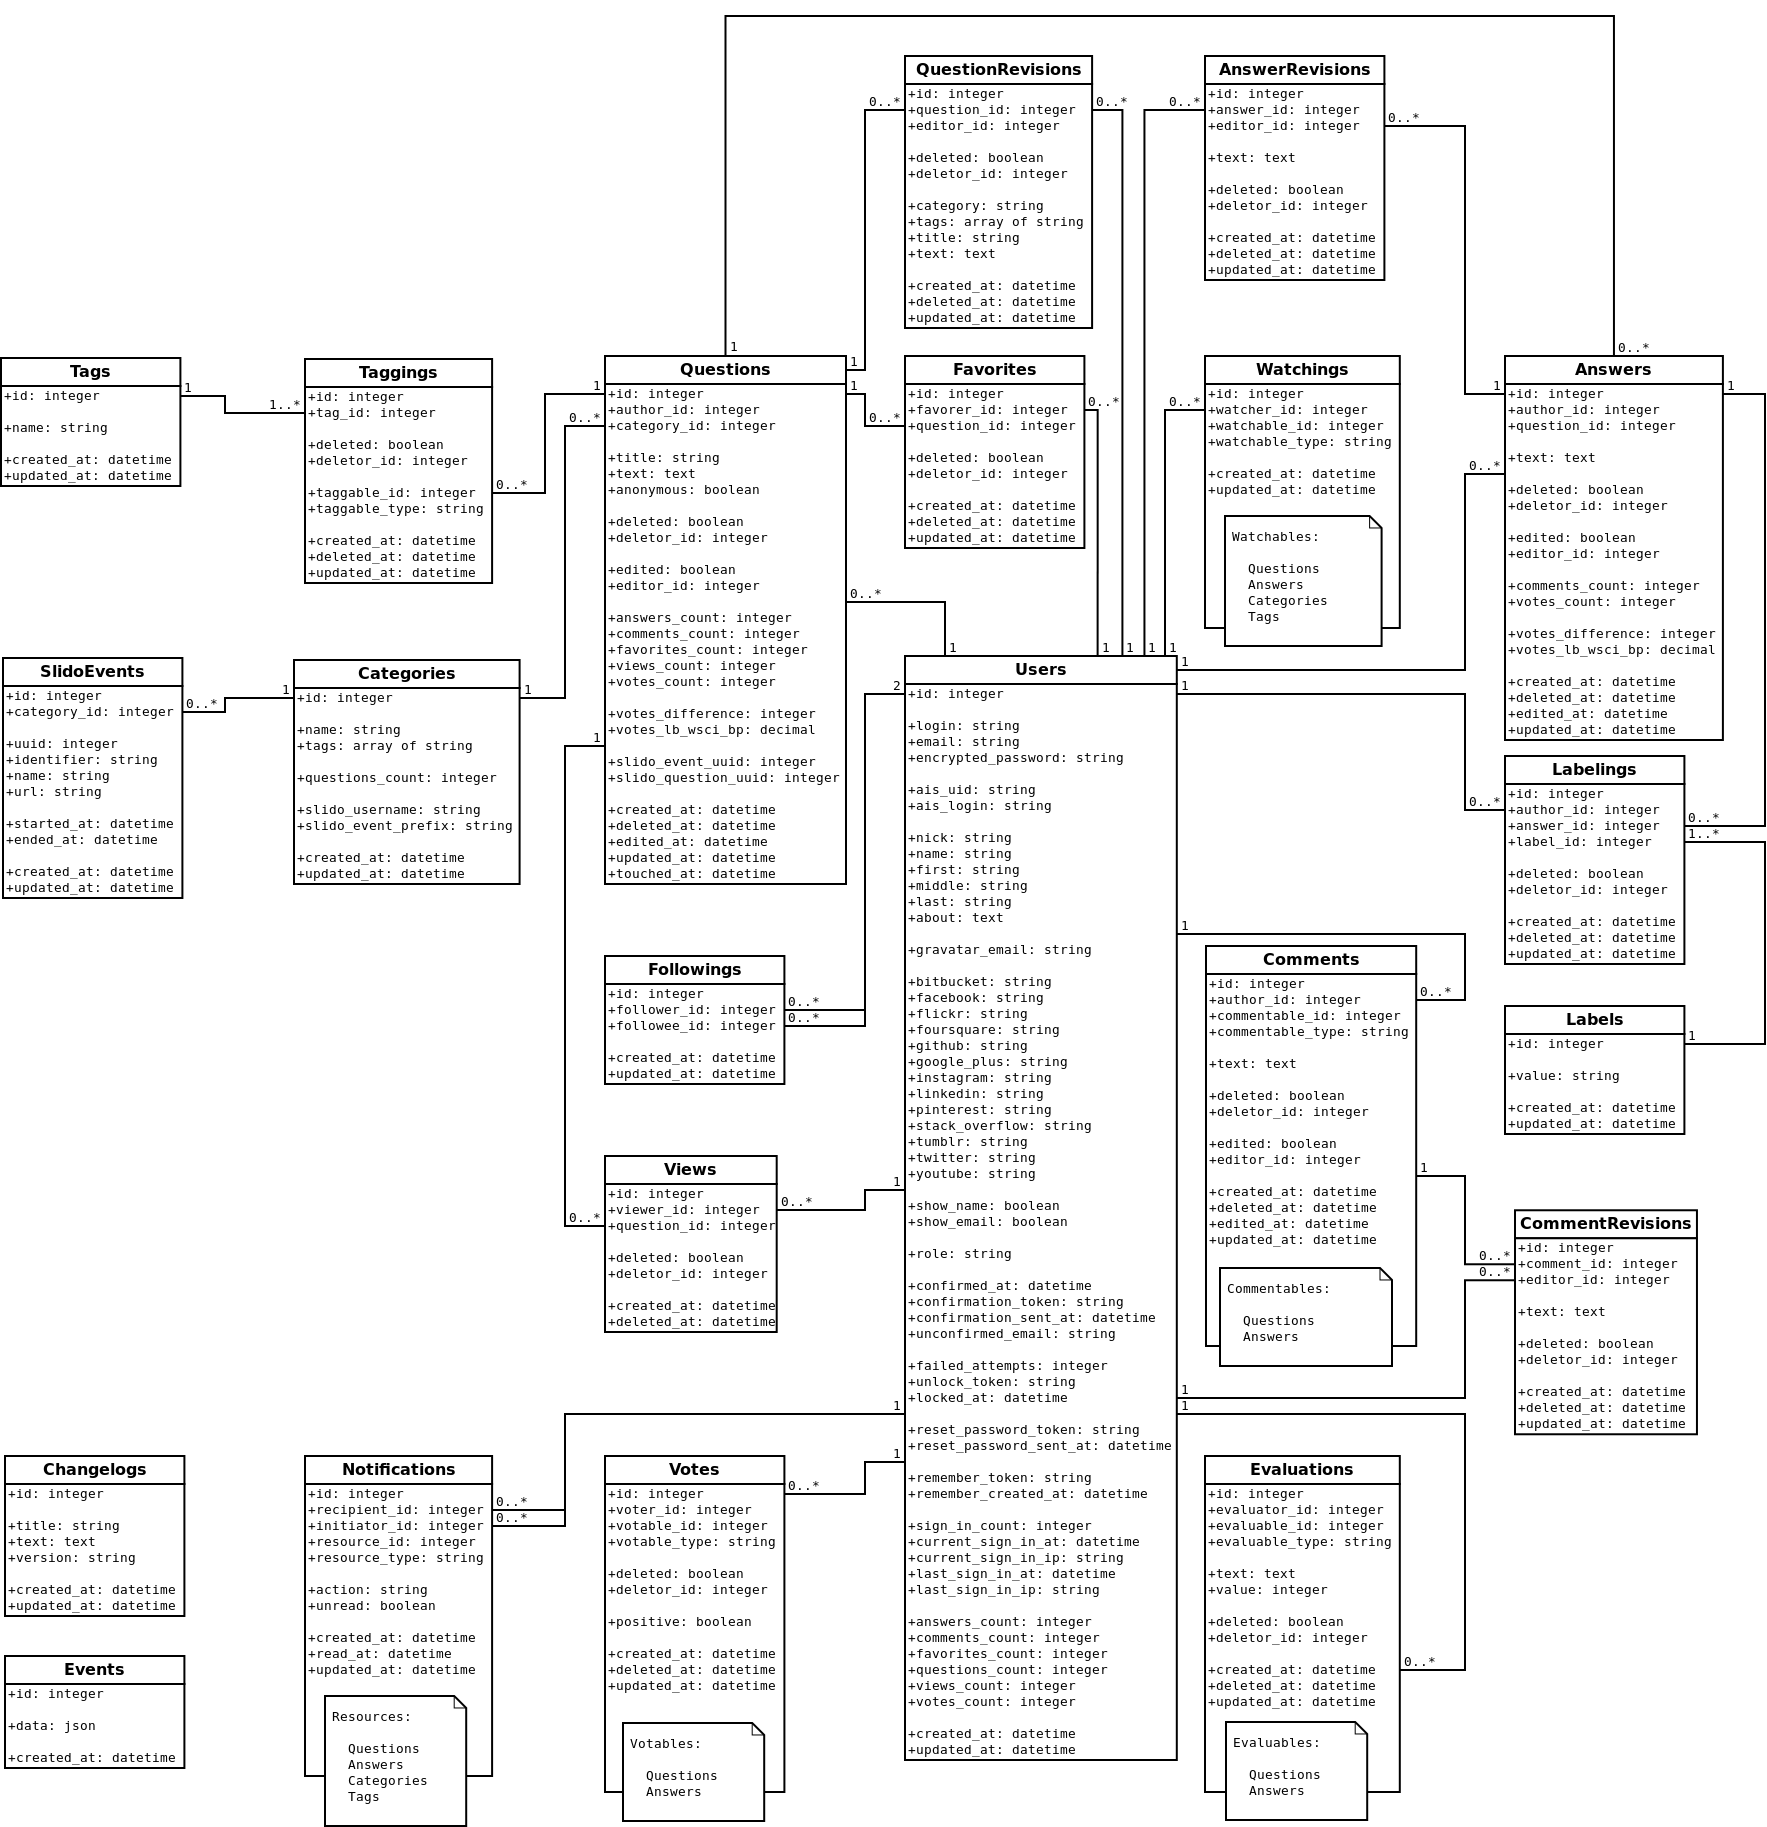
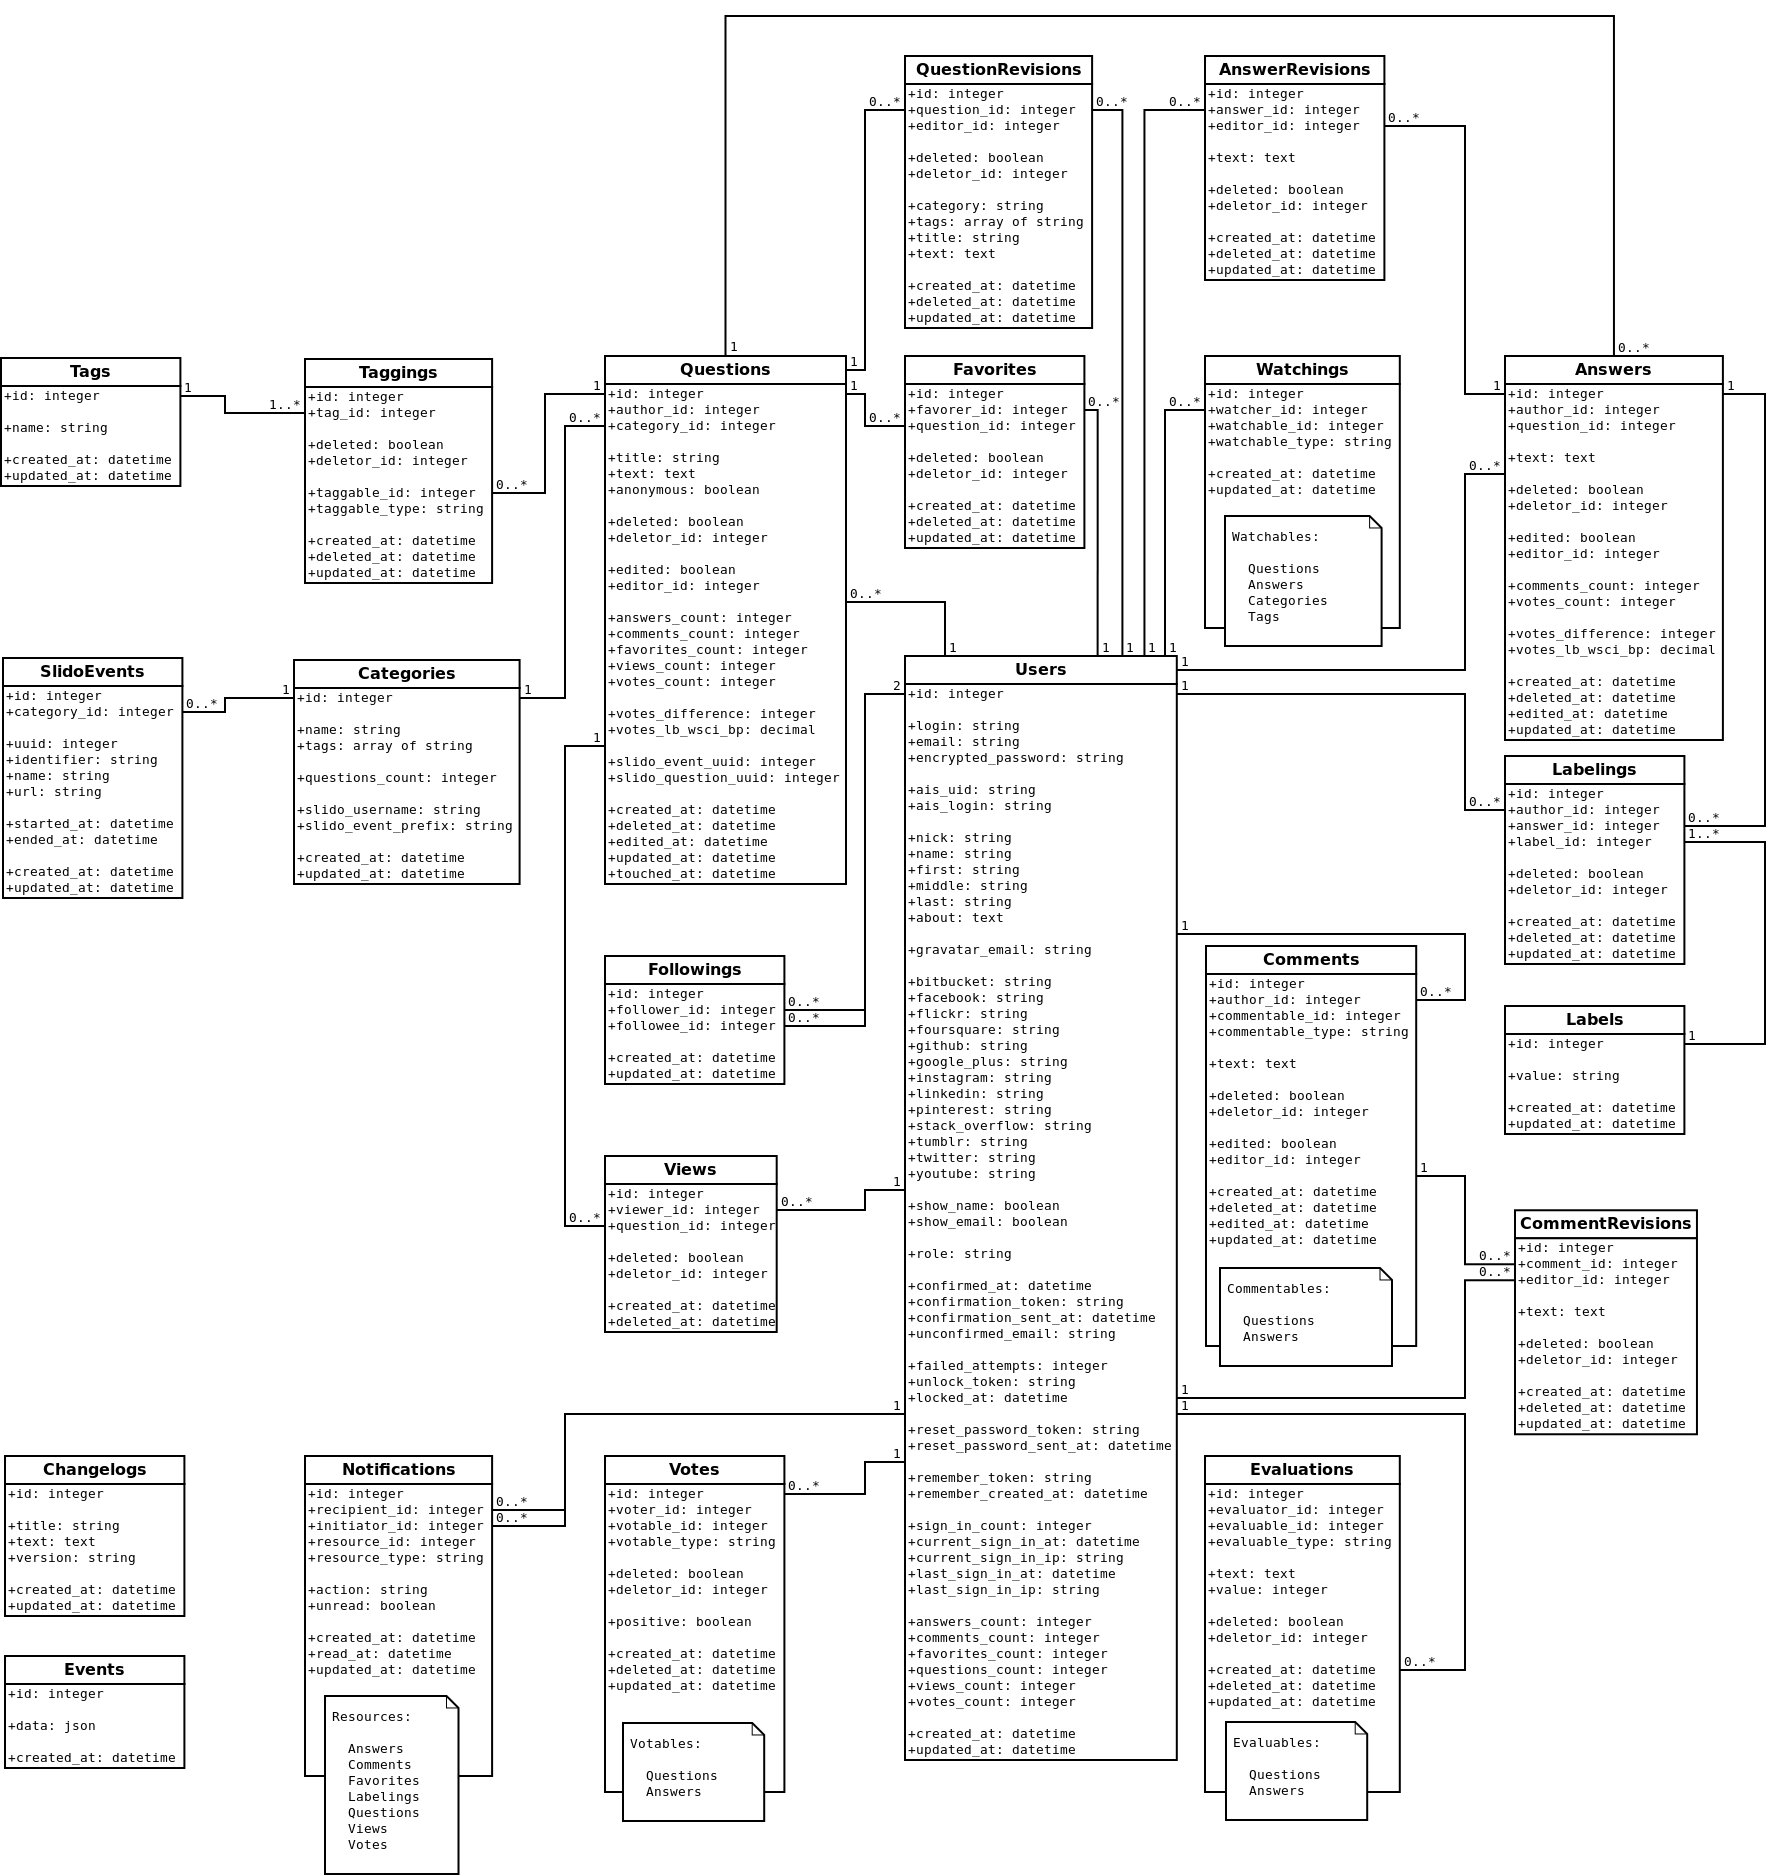
Add notifications for favoring, labeling, viewing and voting

diff --git a/app/controllers/questions_controller.rb b/app/controllers/questions_controller.rb
@@ -65,15 +65,25 @@ class QuestionsController < ApplicationController
 
     @answer = Answer.new(question: @question)
 
-    @question.views.create! viewer: current_user
+    authorize! :view, @question
+
+    @view = @question.views.create! viewer: current_user
+
     @question.views.reload
+
+    notify_about :create, @view, for: @question.watchers
   end
 
   def favor
     @question = Question.find(params[:id])
 
-    @question.toggle_favoring_by! current_user
+    authorize! :favor, @question
+
+    @favorite = @question.toggle_favoring_by! current_user
+
     @question.favorites.reload
+
+    notify_about notify_action_for(@favorite), @favorite, for: @question.watchers
   end
 
   def suggest

diff --git a/app/controllers/answers_controller.rb b/app/controllers/answers_controller.rb
@@ -45,7 +45,9 @@ class AnswersController < ApplicationController
 
           if labeling
             @answers << answer
-            labeling.delete
+            labeling.destroy
+
+            notify_about :delete, labeling, for: answer.watchers
           end
         end
       when :helpful
@@ -56,7 +58,9 @@ class AnswersController < ApplicationController
         fail
     end
 
-    @answer.toggle_labeling_by! current_user, params[:value]
+    @labeling = @answer.toggle_labeling_by! current_user, params[:value]
+
+    notify_about notify_action_for(@labeling), @labeling, for: @answer.watchers
   end
 
   private

diff --git a/app/models/concerns/votable.rb b/app/models/concerns/votable.rb
@@ -24,7 +24,7 @@ module Votable
 
   def toggle_vote_by!(user, positive)
     unless voted_by? user
-      votes.create! voter: user, positive: positive
+      vote = votes.create! voter: user, positive: positive
     else
       vote = votes.where(voter: user).first
 
@@ -37,6 +37,8 @@ module Votable
     end
 
     update_votes_caches!
+
+    vote
   end
 
   def toggle_voteup_by!(user)

diff --git a/app/controllers/concerns/voting.rb b/app/controllers/concerns/voting.rb
@@ -17,8 +17,11 @@ module Voting
 
     authorize! :vote, @votable
 
-    @votable.toggle_vote_by!(current_user, voteup)
+    @vote = @votable.toggle_vote_by!(current_user, voteup)
+
     @votable.votes.reload
+
+    notify_about notify_action_for(@vote), @vote, for: @votable.watchers
 
     render 'votables/vote', formats: :js
   end

diff --git a/app/controllers/concerns/notifications/notifying.rb b/app/controllers/concerns/notifications/notifying.rb
@@ -4,4 +4,8 @@ module Notifications::Notifying
   def notify_about(action, resource, initiator: current_user, **options)
     Notifications::Dispatcher.notify(action, initiator, resource, options)
   end
+
+  def notify_action_for(resource)
+    resource.destroyed? ? :deleted : (resource.changed? ? :update : :create)
+  end
 end

diff --git a/app/models/concerns/favorable.rb b/app/models/concerns/favorable.rb
@@ -16,8 +16,6 @@ module Favorable
   def toggle_favoring_by!(user)
     return favorites.create! favorer: user unless favored_by?(user)
 
-    favorites.where(favorer: user).first.destroy
-
-    self
+    favorites.where(favorer: user).first.destroy!
   end
 end

diff --git a/app/models/ability.rb b/app/models/ability.rb
@@ -23,6 +23,8 @@ class Ability
 
     can :ask,    Question
     can :answer, Question
+    can :favor,  Question
+    can :view,   Question
 
     can :comment, [Question, Answer]
     can :vote,    [Question, Answer]
